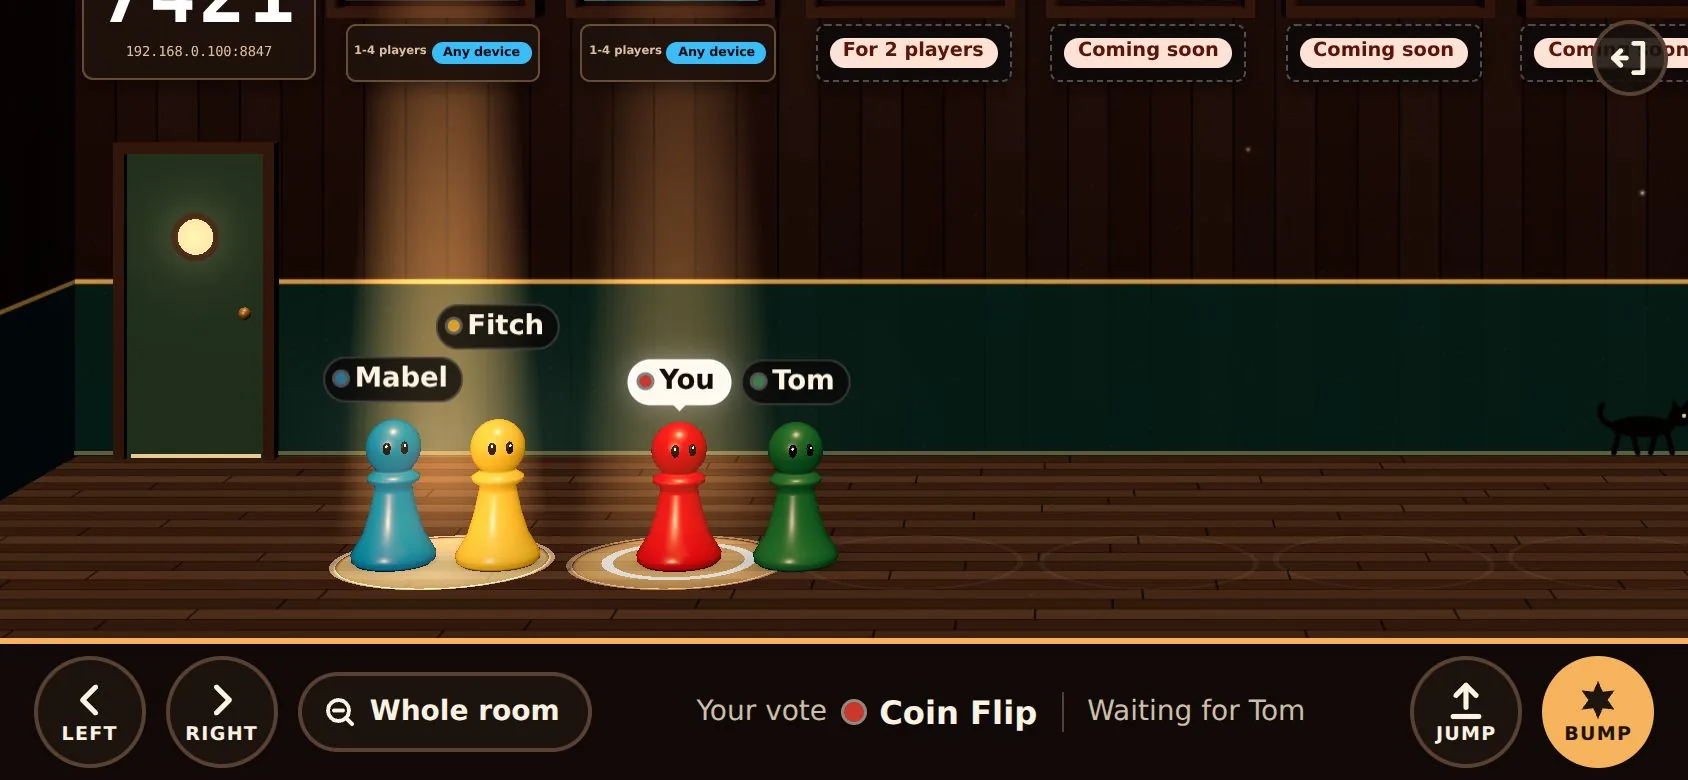
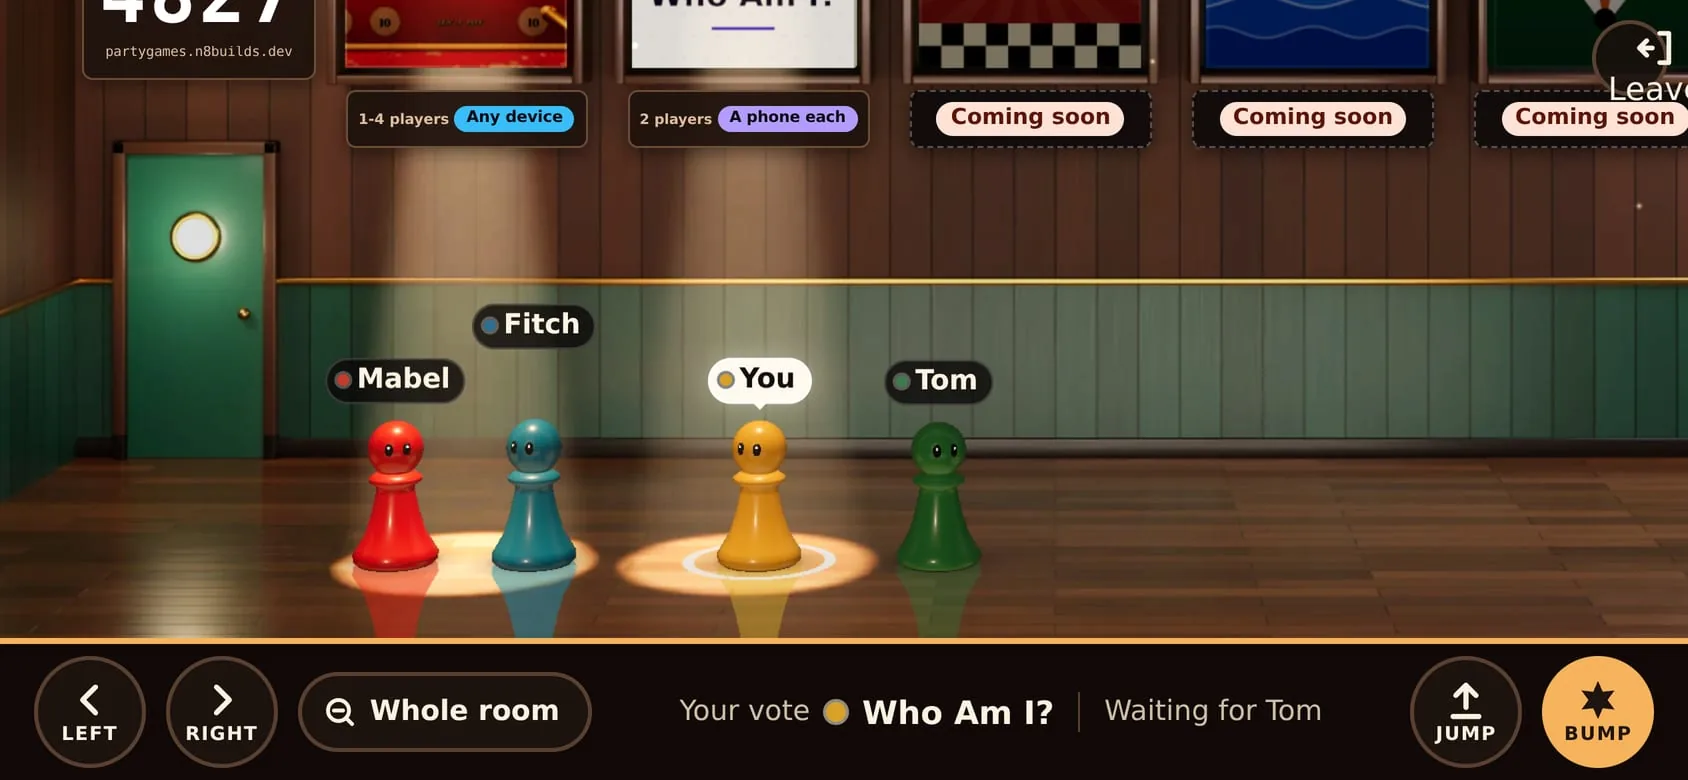
fix(games): the n8games build page shows the production wall, with the public address
The big-screen, phone and Star Lounge stills came from local test runs:
their sign showed a local network address and the wall hung Coin Flip,
the test game. They are now the repository's posed stills of the
production wall, whose sign reads partygames.n8builds.dev, and their alt
text says what they show.

Release-note: skip

diff --git a/data/builds.tsx b/data/builds.tsx
@@ -541,11 +541,11 @@ images: [
       },
       {
         src: '/games/n8games/screen-vote.webp',
-        alt: 'The room on a big screen, from a test run: four pawns by the door, two of them in the lights of Cork & Bell and Coin Flip, the join code and QR code on the wall and the Tonight board on the right',
+        alt: 'The room on a big screen, in its rendered bar: four pawns, red and blue in the light of Cork & Bell and yellow in the light of Who Am I?, the join code and QR code on the wall, and the Tonight board on the right',
       },
       {
         src: '/games/n8games/phone-closer.webp',
-        alt: 'The same room on a phone held sideways, closer in on the player\'s red pawn, with Left, Right, Whole room, Jump and Bump buttons along the bottom',
+        alt: 'The same room on a phone held sideways, closer in on the player\'s yellow pawn, with Left, Right, Whole room, Jump and Bump buttons and the player\'s vote along the bottom',
       },
       {
         src: '/games/n8games/cork-in-the-room.webp',
@@ -553,7 +553,7 @@ images: [
       },
       {
         src: '/games/n8games/star-lounge.webp',
-        alt: 'The Star Lounge, another of the room\'s looks, on a big screen: the same wall of games and lamps in a lounge with a planet outside the windows',
+        alt: 'The Star Lounge, another of the room\'s looks, on a big screen: the same wall of games and lamps in a lounge with stars and a ringed planet outside the windows',
       },
     ],
     credits: [
